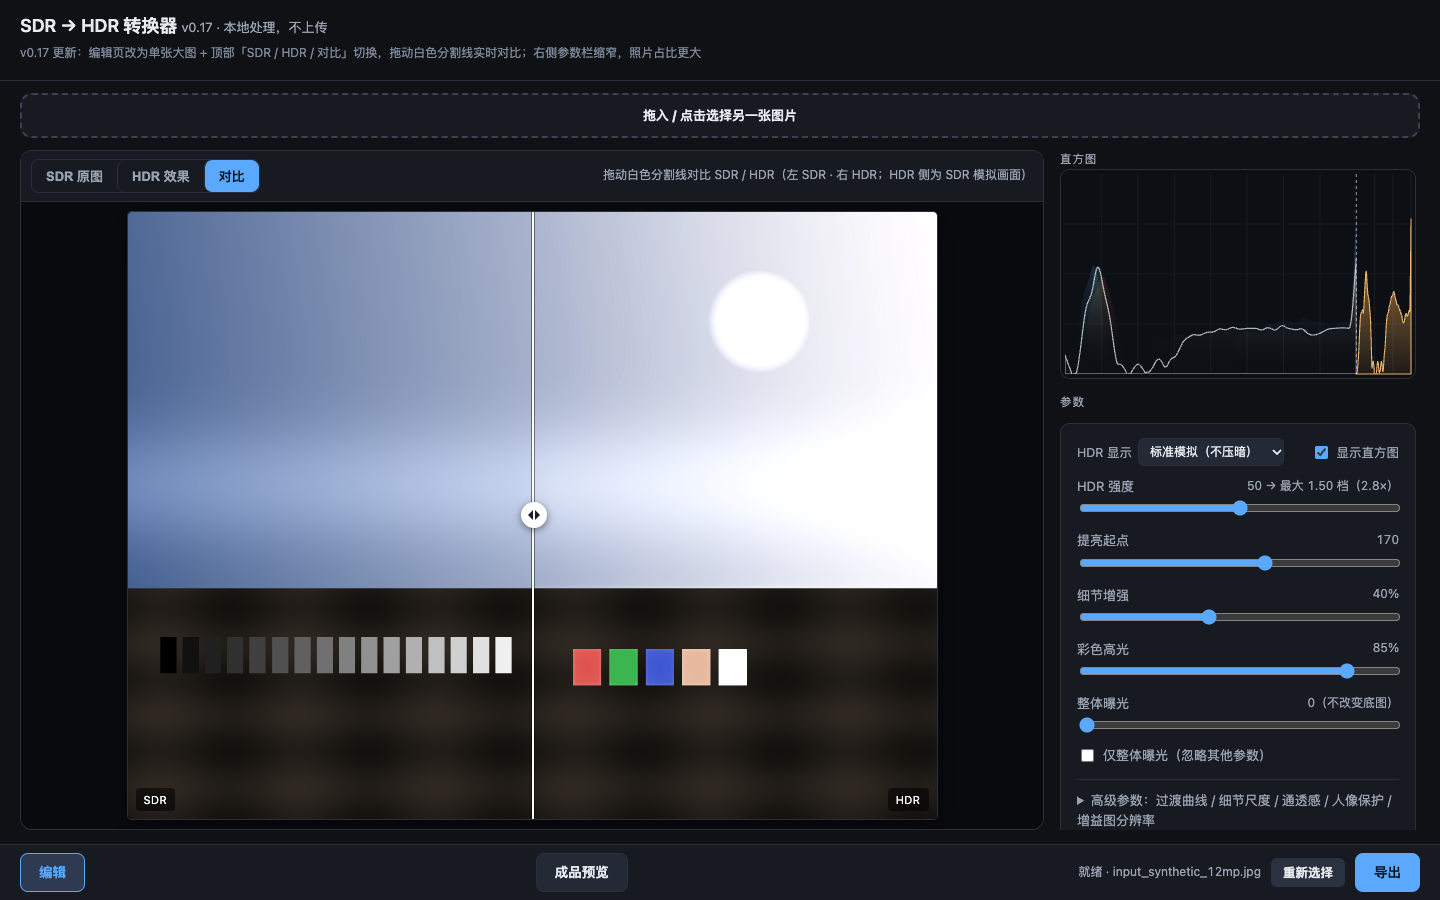
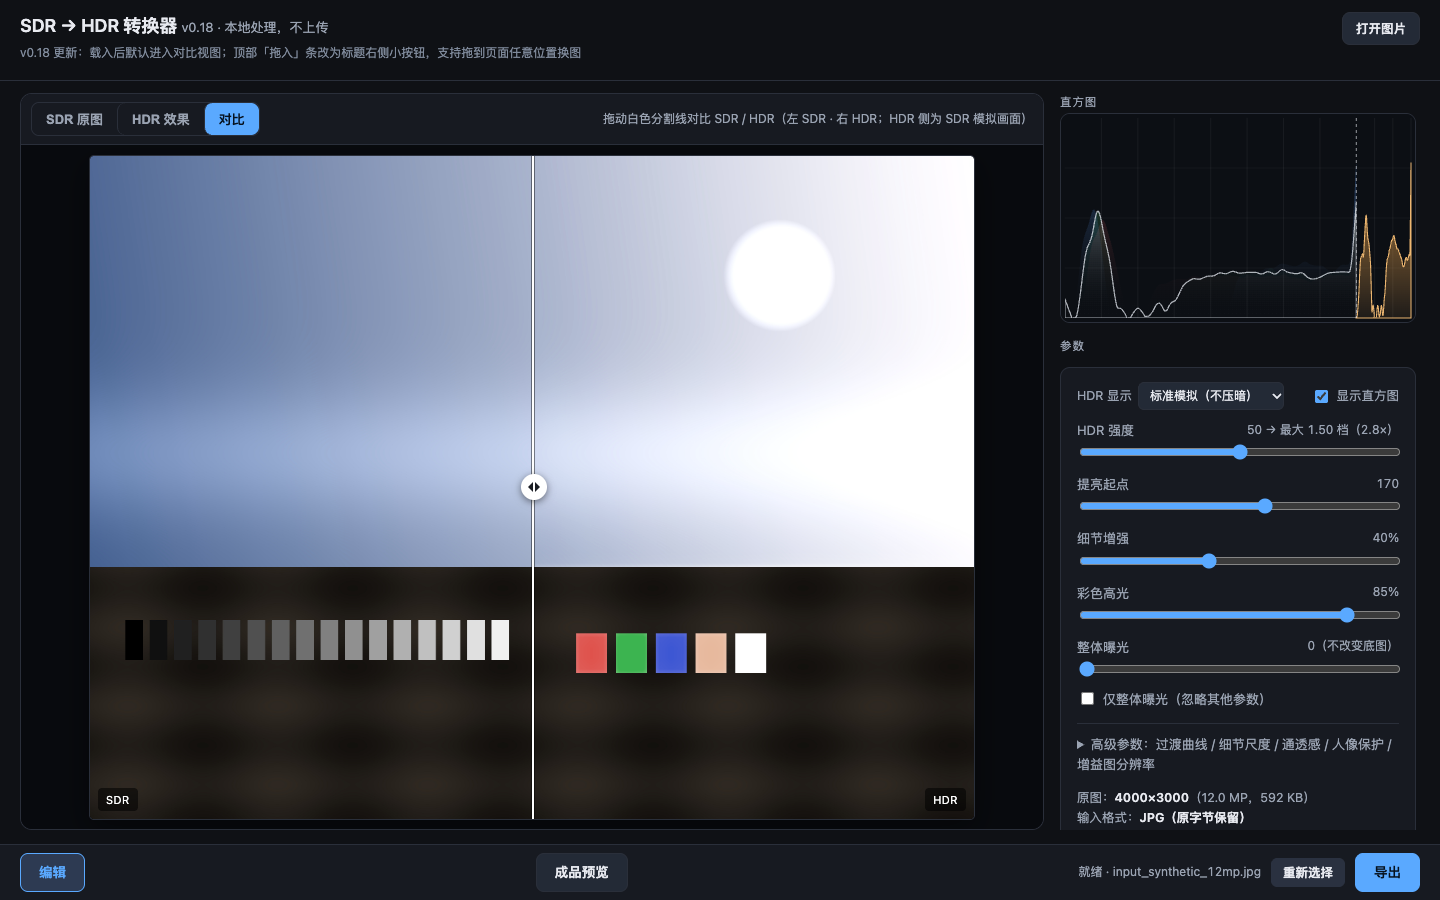
feat(ui): v0.18 header open button, default split view, page-wide drop
- Hide the full-width drop bar after load; add a compact '打开图片' button at the right of the page title (desktop only; mobile unchanged)
- Keep drag-and-drop file replacement after load by accepting drops anywhere on the page with a full-screen drop overlay
- Desktop now defaults to the split compare view (left SDR / right HDR) with the 360px sidebar params editable live; mobile keeps HDR default and existing layout
- Tests assert default view, header button visibility, drop bar hidden, mobile unchanged; desktop/mobile/load tests pass
- Docs/screenshots/version/package v0.18; local commit only

diff --git a/index.html b/index.html
@@ -3,7 +3,7 @@
 <head>
 <meta charset="utf-8">
 <meta name="viewport" content="width=device-width, initial-scale=1, viewport-fit=cover">
-<title>SDR → HDR 转换器（本地网页版）v0.17</title>
+<title>SDR → HDR 转换器（本地网页版）v0.18</title>
 <style>
   :root {
     --bg: #0f1115; --panel: #171a21; --line: #2a2f3a; --fg: #e8eaf0;
@@ -16,9 +16,31 @@
     font: 14px/1.55 -apple-system, BlinkMacSystemFont, "Segoe UI", "PingFang SC", sans-serif;
     display: flex; flex-direction: column; overflow: hidden;
   }
-  header { padding: 12px 20px 10px; border-bottom: 1px solid var(--line); flex: none; }
-  /* 载入图片后收起说明文字，把空间让给中间大图（版本更新说明保留） */
+  header {
+    padding: 12px 20px 10px; border-bottom: 1px solid var(--line); flex: none;
+    display: flex; align-items: flex-start; justify-content: space-between; gap: 16px;
+  }
+  .header-text { flex: 1; min-width: 0; }
+  .header-open {
+    flex: none; display: none; align-items: center; gap: 6px;
+    background: #232a36; color: var(--fg); border: 1px solid var(--line);
+    border-radius: 8px; padding: 7px 13px; font-size: 12.5px; font-weight: 600;
+    cursor: pointer; white-space: nowrap;
+  }
+  .header-open:hover { border-color: var(--accent); color: var(--accent); }
+  body.loaded .header-open { display: inline-flex; }
+  /* 载入图片后收起说明文字与拖入横条，把空间让给中间大图 */
   body.loaded header p { display: none; }
+  body.loaded .drop { display: none !important; }
+
+  .drag-overlay {
+    position: fixed; inset: 0; z-index: 200; pointer-events: none;
+    display: flex; align-items: center; justify-content: center;
+    background: rgba(6, 10, 16, .78); border: 2px dashed var(--accent);
+    color: #cfe2ff; font-size: 16px; font-weight: 600; letter-spacing: .04em;
+    backdrop-filter: blur(2px);
+  }
+  .drag-overlay.hidden { display: none !important; }
   h1 { font-size: 18px; margin: 0 0 6px; font-weight: 600; }
   header p { margin: 0; color: var(--muted); font-size: 13px; max-width: 920px; }
   .ver-note { color: #7f8a9b; font-size: 12px; margin: -2px 0 8px; }
@@ -219,6 +241,8 @@
       flex: 0 0 auto; padding: calc(8px + env(safe-area-inset-top, 0px)) 14px 8px;
       display: flex; align-items: center; justify-content: space-between;
     }
+    .header-text { flex: 1; min-width: 0; }
+    .header-open { display: none !important; }
     header h1 { font-size: 16px; margin: 0; line-height: 1.25; }
     header p { display: none; }
     .ver-note { display: none; }
@@ -389,10 +413,13 @@
 </head>
 <body>
 <header>
-  <h1>SDR → HDR 转换器 <span style="color:var(--muted);font-weight:400;font-size:13px">v0.17 · 本地处理，不上传</span></h1>
-  <div class="ver-note">v0.17 更新：编辑页改为单张大图 + 顶部「SDR / HDR / 对比」切换，拖动白色分割线实时对比；右侧参数栏缩窄，照片占比更大</div>
-  <p>把普通 SDR JPG / PNG 转成带增益图（gain map）的 HDR JPG：<b>HDR 屏上</b>高光更亮、画面更通透；
-     <b>普通屏 / 旧软件</b>显示和原图完全一样。原图字节（含 EXIF/ICC）原样保留，全程在浏览器本地处理。</p>
+  <div class="header-text">
+    <h1>SDR → HDR 转换器 <span style="color:var(--muted);font-weight:400;font-size:13px">v0.18 · 本地处理，不上传</span></h1>
+    <div class="ver-note">v0.18 更新：载入后默认进入对比视图；顶部「拖入」条改为标题右侧小按钮，支持拖到页面任意位置换图</div>
+    <p>把普通 SDR JPG / PNG 转成带增益图（gain map）的 HDR JPG：<b>HDR 屏上</b>高光更亮、画面更通透；
+       <b>普通屏 / 旧软件</b>显示和原图完全一样。原图字节（含 EXIF/ICC）原样保留，全程在浏览器本地处理。</p>
+  </div>
+  <button type="button" id="headerOpenBtn" class="header-open" title="打开另一张图片">打开图片</button>
 </header>
 <main>
   <div class="drop" id="drop" tabindex="0" role="button">
@@ -408,8 +435,8 @@
       <div class="view-toolbar">
         <div class="view-seg" id="viewTabs" role="group" aria-label="视图">
           <button type="button" data-view="sdr" aria-pressed="false">SDR 原图</button>
-          <button type="button" data-view="hdr" aria-pressed="true">HDR 效果</button>
-          <button type="button" data-view="split" aria-pressed="false">对比</button>
+          <button type="button" data-view="hdr" aria-pressed="false">HDR 效果</button>
+          <button type="button" data-view="split" aria-pressed="true">对比</button>
         </div>
         <span class="view-hint" id="viewHint">拖动白色分割线，对比 SDR / HDR（左 SDR · 右 HDR）</span>
       </div>
@@ -608,6 +635,7 @@
 </nav>
 
 <!-- 成品预览（全屏） -->
+<div id="dragOverlay" class="drag-overlay hidden">松开以打开图片</div>
 <div id="bigView" class="big-view hidden">
   <div class="big-top">
     <div class="big-title">
@@ -1479,7 +1507,7 @@ const state = {
   pressSdrTimer: 0,
   pressSdrActive: false,
   pressSdrUsed: false,
-  view: "hdr",
+  view: "split",
   split: 0.5,
   splitDrag: false,
   framePress: null,
@@ -1488,6 +1516,8 @@ const state = {
 
 const els = {
   drop: document.getElementById("drop"),
+  headerOpenBtn: document.getElementById("headerOpenBtn"),
+  dragOverlay: document.getElementById("dragOverlay"),
   file: document.getElementById("file"),
   editor: document.getElementById("editor"),
   result: document.getElementById("result"),
@@ -2494,7 +2524,8 @@ async function loadFileCore(file) {
   updateExportLabels();
   updateExportInfo();
 
-  state.view = "hdr";
+  // 桌面载入后默认进入左右对比；手机保持原来的 HDR 视图（手机布局暂不动）
+  state.view = (window.matchMedia && window.matchMedia("(max-width: 960px)").matches) ? "hdr" : "split";
   state.split = 0.5;
   updateParamLabels();
   updateViewTabs();
@@ -3537,6 +3568,7 @@ function bindUi() {
   if (els.loadError) els.loadError.addEventListener("click", (e) => {
     if (e.target && e.target.closest && e.target.closest(".le-close")) hideLoadError();
   });
+  if (els.headerOpenBtn) els.headerOpenBtn.addEventListener("click", () => els.file.click());
   els.drop.addEventListener("click", () => els.file.click());
   els.drop.addEventListener("keydown", (e) => { if (e.key === "Enter" || e.key === " ") els.file.click(); });
   els.file.addEventListener("change", () => loadFile(els.file.files[0]));
@@ -3551,8 +3583,34 @@ function bindUi() {
     const f = e.dataTransfer && e.dataTransfer.files && e.dataTransfer.files[0];
     if (f) loadFile(f);
   });
-  document.addEventListener("dragover", (e) => e.preventDefault());
-  document.addEventListener("drop", (e) => e.preventDefault());
+
+  // 载入后拖入横条会被隐藏：支持把文件拖到页面任意位置换图
+  const hasFileDrag = (e) => {
+    const types = e.dataTransfer && e.dataTransfer.types;
+    return types && Array.from(types).includes("Files");
+  };
+  const showDragOverlay = () => { if (els.dragOverlay) els.dragOverlay.classList.remove("hidden"); };
+  const hideDragOverlay = () => { if (els.dragOverlay) els.dragOverlay.classList.add("hidden"); };
+  document.addEventListener("dragenter", (e) => {
+    if (!hasFileDrag(e)) return;
+    e.preventDefault(); showDragOverlay();
+  });
+  document.addEventListener("dragover", (e) => {
+    if (!hasFileDrag(e)) return;
+    e.preventDefault(); showDragOverlay();
+  });
+  document.addEventListener("dragleave", (e) => {
+    if (e.relatedTarget === null) hideDragOverlay();
+  });
+  document.addEventListener("drop", (e) => {
+    e.preventDefault();
+    hideDragOverlay();
+    const f = e.dataTransfer && e.dataTransfer.files && e.dataTransfer.files[0];
+    if (!f) return;
+    // 初始的大拖入区自己会处理，避免重复加载
+    if (e.target && e.target.closest && e.target.closest("#drop")) return;
+    loadFile(f);
+  });
 
   const sliders = [els.strength, els.knee, els.detail, els.color, els.curvePow,
                    els.detailRadius, els.clarity, els.portraitStrength,
@@ -3714,7 +3772,7 @@ function bindUi() {
  * 测试钩子（headless Chrome / 自动化验证）
  * ============================================================ */
 window.__hdrApp = {
-  version: "0.17",
+  version: "0.18",
   defaultParams: DEFAULT_PARAMS,
   async encodeFromArrayBuffer(buffer, paramsOrStrength, gainScaleOpt, exportOptsOpt) {
     let params;

diff --git a/tools/test_ui.js b/tools/test_ui.js
@@ -35,6 +35,16 @@ const SHOTS = path.join(ROOT, "tests");
   await fi.uploadFile(path.join(ROOT, input));
   await page.waitForFunction('!document.getElementById("editor").classList.contains("hidden") && document.getElementById("cvSdr").width > 0', { timeout: 30000 });
   await new Promise((r) => setTimeout(r, 700));
+  const afterLoad = await page.evaluate(() => ({
+    view: state.view,
+    headerBtn: getComputedStyle(document.getElementById("headerOpenBtn")).display,
+    drop: getComputedStyle(document.getElementById("drop")).display,
+    splitTags: !document.getElementById("tagL").classList.contains("hidden"),
+  }));
+  console.log("after load:", JSON.stringify(afterLoad));
+  if (afterLoad.view !== "split" || !afterLoad.splitTags) errors.push("desktop should default to split view");
+  if (afterLoad.headerBtn === "none") errors.push("header open button should be visible");
+  if (afterLoad.drop !== "none") errors.push("compact drop bar should be hidden after load");
 
   async function setSlider(id, value) {
     await page.evaluate((id, v) => {

diff --git a/tools/test_mobile.js b/tools/test_mobile.js
@@ -27,6 +27,15 @@ const SHOTS = path.join(ROOT, "tests");
   await (await page.$("#file")).uploadFile(path.join(ROOT, input));
   await page.waitForFunction('!document.getElementById("mobileParams").classList.contains("hidden")', { timeout: 30000 });
   await new Promise((r) => setTimeout(r, 900));
+  const mobileDefault = await page.evaluate(() => ({
+    view: state.view,
+    headerBtn: getComputedStyle(document.getElementById("headerOpenBtn")).display,
+    drop: getComputedStyle(document.getElementById("drop")).display,
+  }));
+  console.log("mobile default:", JSON.stringify(mobileDefault));
+  if (mobileDefault.view !== "hdr") errors.push("mobile should keep HDR as default view");
+  if (mobileDefault.headerBtn !== "none") errors.push("header open button should stay hidden on mobile");
+  if (mobileDefault.drop !== "none") errors.push("mobile drop bar should be hidden after load");
 
   const layout = await page.evaluate(() => {
     const disp = (id) => getComputedStyle(document.getElementById(id)).display;

diff --git a/README.md b/README.md
@@ -14,7 +14,8 @@
 - **参数悬停说明**：鼠标停在任意滑块/选项上会显示该参数具体影响画面的什么内容
 - **导入失败提示**：所有加载错误都会在主界面显示原因（不再静默失败）；缺少 JPEG 结束标记的图会尝试自动补全后导入并提示
 - **增益图灰度预览**：桌面右侧「HDR 显示」下拉 / 手机参数条可切换到灰度增益图，白色=提亮最多、黑色=不变，直观查看 HDR 提亮分布
-- **对比视图**：顶部切到「对比」，左右拖动白色分割线比较 SDR / HDR（模拟）；手机同样支持触屏拖动
+- **对比视图**：顶部切到「对比」，左右拖动白色分割线比较 SDR / HDR（模拟）；桌面载入后默认进入对比，手机同样支持触屏拖动
+- 载入后顶部大标题右侧为「打开图片」小按钮；也可以把图片直接拖到页面任意位置换图
 - **整体曝光只作用于 HDR**：不修改 SDR 底图；可开启「仅整体曝光」忽略其他参数，做纯曝光提亮
 - **手机端**：App 式固定布局——顶部极简标题栏、底部参数条/导航固定，中间照片区域自适应并**完整显示整张照片**（长图不滚动）；
   点选参数才展开滑块，面板向上顶起、照片自动缩小但完整可见
@@ -37,11 +38,11 @@ https://tianqiQWQ.github.io/sdr2hdr-gainmap/
 
 ## 截图
 
-| 单张大图工作台（顶部 SDR/HDR/对比） | 成品预览（全屏） |
+| 单张大图工作台（标题右侧「打开图片」） | 成品预览（全屏） |
 |---|---|
 | ![主界面](assets/screenshots/main.png) | ![成品预览](assets/screenshots/preview.png) |
 
-| 对比视图（拖动白色分割线） | 手机端对比（触屏拖动） |
+| 对比视图（桌面默认进入，拖动白色分割线） | 手机端对比（触屏拖动） |
 |---|---|
 | ![对比视图](assets/screenshots/split.png) | ![手机对比](assets/screenshots/mobile-split.png) |
 

diff --git a/docs/compatibility.md b/docs/compatibility.md
@@ -25,7 +25,8 @@
 
 ### 界面（v0.17+）
 
-- **桌面**：单张大图工作台；顶部「SDR 原图 / HDR 效果 / 对比」切换；对比模式下左 SDR / 右 HDR，拖动白色分割线实时比较；右侧 360px 直方图 + 参数栏
+- **桌面**：单张大图工作台；顶部「SDR 原图 / HDR 效果 / 对比」切换；载入后默认进入对比；对比模式下左 SDR / 右 HDR，拖动白色分割线实时比较；右侧 360px 直方图 + 参数栏可实时调整
+- 载入后拖入横条收起，标题右侧「打开图片」按钮换图；也可以把文件拖到页面任意位置
 - **手机 / 平板（≤960px）**：固定顶部标题 + 视图切换、底部参数条/导航，中间照片自适应完整显示
 - 照片完整显示（contain，不裁切、不滚动）；长图/横屏手机也能一屏看全
 - 点选参数才展开滑块，面板向上顶起、照片自动缩小但始终完整可见；「高级」含高级参数与增益图分辨率

diff --git a/CHANGELOG.md b/CHANGELOG.md
@@ -2,6 +2,14 @@
 
 本项目的版本更新记录。从 v0.7 起，页面版本号下方会固定显示一行"本次更新"小字（每次发版同步此处）。
 
+## v0.18 — 2026-11
+
+- 载入图片后隐藏顶部整条「拖入 / 点击选择另一张图片」，改为大标题右侧的小按钮「打开图片」，把高度让给中间大图
+- 保留拖拽换图：载入后可以把图片拖到页面任意位置，出现全屏拖入提示并直接替换当前图片
+- 桌面端载入后默认进入「对比」视图（左 SDR / 右 HDR + 右侧参数实时可调）；手机端保持原有 HDR 默认视图与布局不变
+- 顶部按钮在手机端隐藏（手机仍使用底部「重新选择」）
+- 更新 E2E 断言：默认视图、顶部按钮、拖入条隐藏、移动端不变
+
 ## v0.17 — 2026-11
 
 - **编辑页参考胶片工作台重构为单张大图**：中间一张大图占满剩余空间，顶部「SDR 原图 / HDR 效果 / 对比」三段切换
